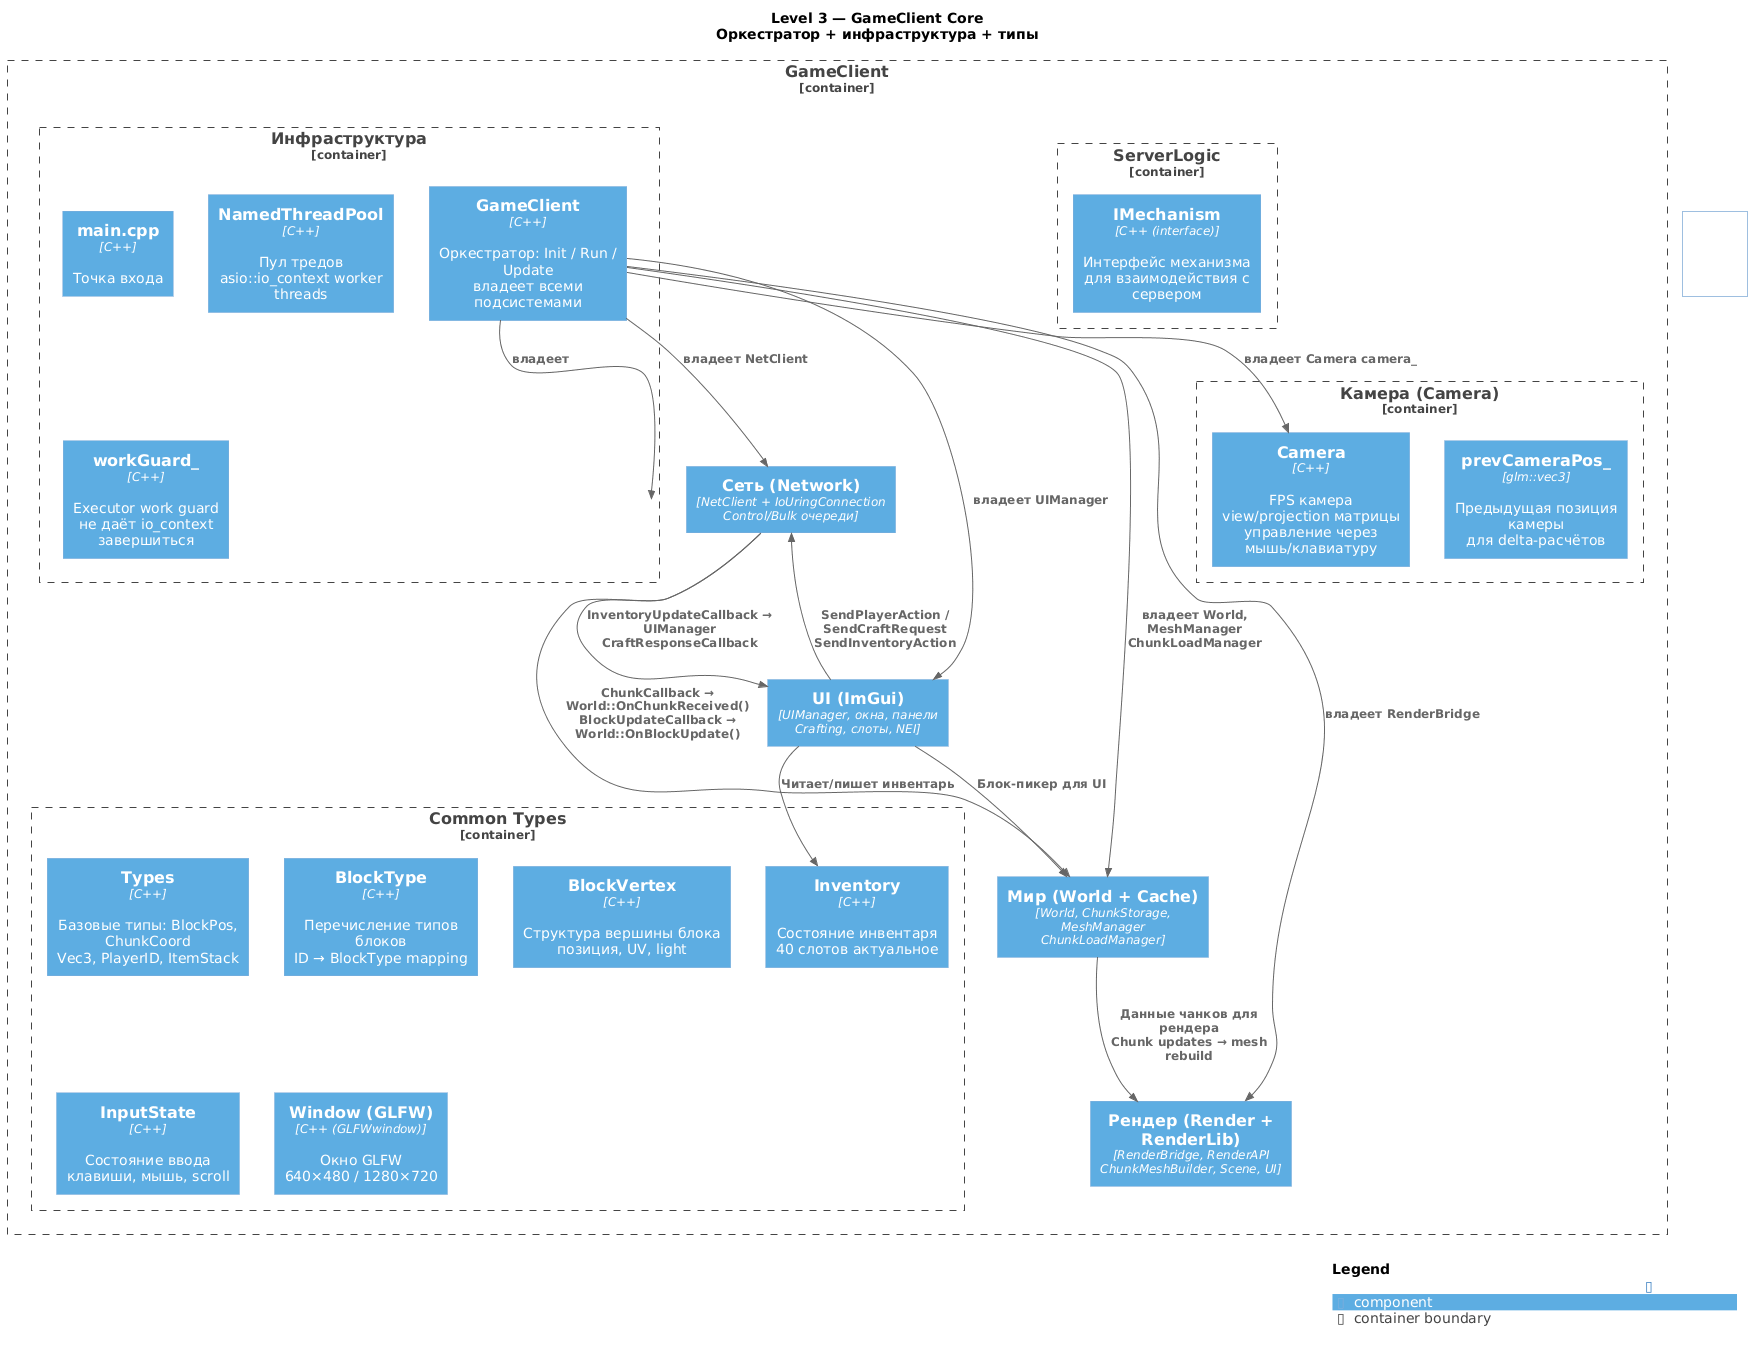
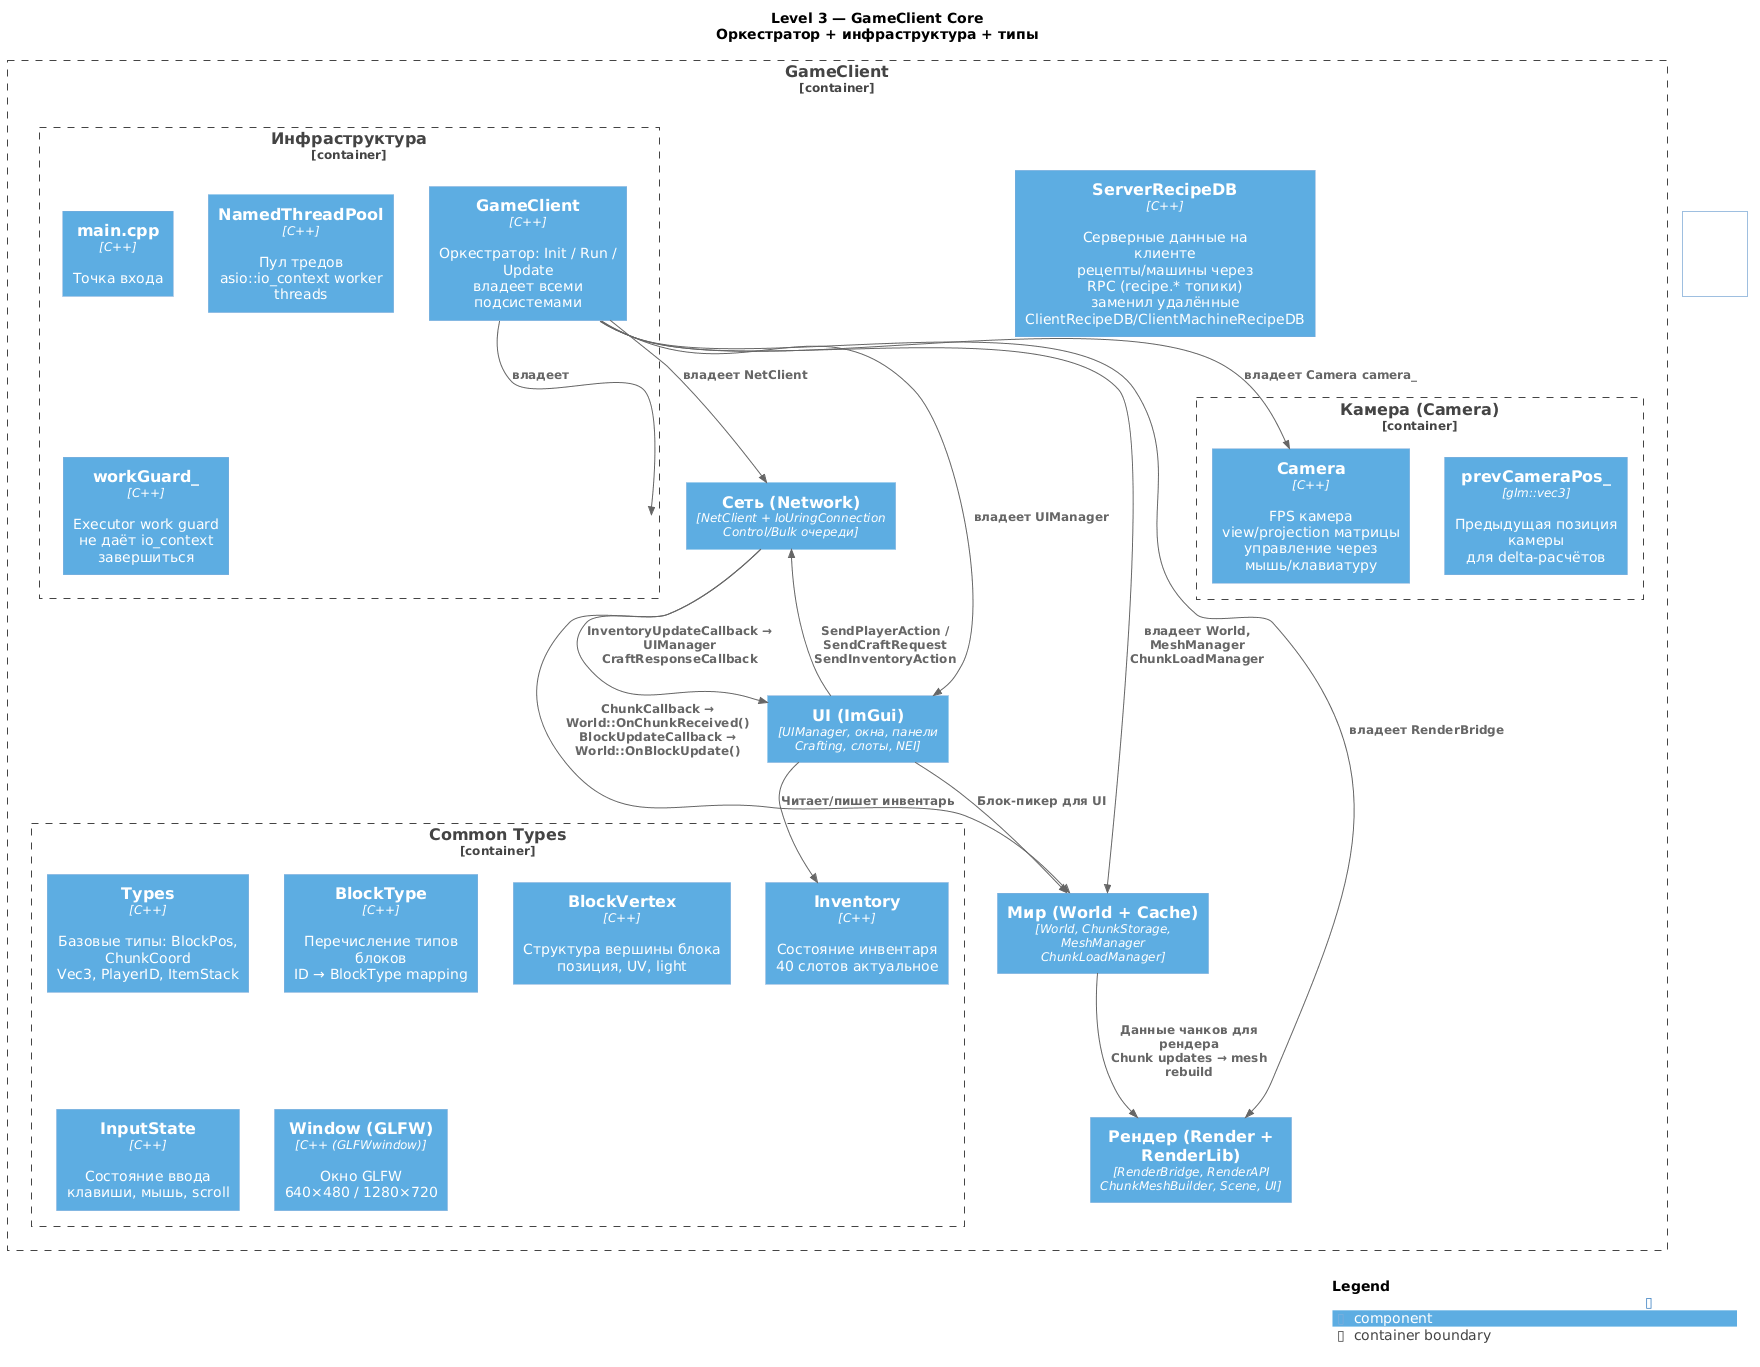
doc: update c4, userflow

diff --git a/doc/c4/README.md b/doc/c4/README.md
@@ -19,9 +19,9 @@ doc/c4/
 ├── level3-meta-db.puml                 # L3 — MetaDB (Go — SQLite, CRUD, event handlers)
 ├── level3-pipe-network.puml            # L3 — PipeNetwork (BFS, flow distribution)
 ├── level3-recipe-manager.puml          # L3 — RecipeManager (standalone service)
-├── level3-tiny-services.puml           # L3 — WorldGenerator + SpatialIndex + Validation
+├── level3-tiny-services.puml           # L3 — WorldGenerator (lib) + SpatialIndex (stub) + Validation
 │
-├── level4-sim-ecs-core.puml            # L4 — SimCore: Engine + 6 systems + Actions
+├── level4-sim-ecs-core.puml            # L4 — SimCore: Engine + 15 systems + Actions
 ├── level4-sim-ecs-components.puml      # L4 — SimCore: 14 ECS data-компонентов
 ├── level4-sim-crafting.puml            # L4 — SimCore: Crafting + RecipeManager + Inventory
 ├── level4-sim-network.puml             # L4 — SimCore: Network clients + Storage repos
@@ -100,3 +100,18 @@ java -jar plantuml.jar doc/c4/level2-container.puml -tpng
 | Сплошная зелёная | RPC | Request-Response |
 | Пунктирная оранжевая | Protocol | FlatBuffers обмен |
 | Пунктирная серая | Planned | Планируемая функциональность |
+
+## Актуальность (2026-09)
+
+Диаграммы синхронизированы с кодом по состоянию на 2026-09:
+
+- **SimulationCore**: 15 ECS-систем (сверено с `simulation_core/main.cpp` registerSystem)
+- **Gateway protocol**: 51 тип GatewayMsg — wire truth `<common/GatewayMsg.h>` (диаграмма
+  `level3-gateway.puml` программно сверяется со скриптом-чекером); `GatewayPayload`
+  union в `gateway.fbs` устарел
+- **MetaDB**: явная подписка на топики, JSON API :5005 + FlatBuffers RPC :5006 (MetaDBFrame)
+- **WorldGenerator**: библиотека (нет main.cpp) — OreGenerator/TreeGenerator/SurfaceHeights
+- **Порты deployment**: :4000 router, :5001 chunk_store, :5005/:5006 metadb,
+  :5200 entity_state, :5555 recipe_manager, :7777/:7778 gateway
+- **Planned (A.1)**: мультиплеер-фундамент (2–8 игроков) отмечен на
+  `level3-gateway.puml` и `level4-deployment.puml` — см. `openspec/changes/add-multiplayer-foundation/`

diff --git a/doc/userflow/README.md b/doc/userflow/README.md
@@ -37,3 +37,15 @@ plantuml doc/userflow/*.puml -tpng
 ## Связанные C4 диаграммы
 
 `doc/c4/level4-flows.puml` — системные event sequence диаграммы (ChunkLoading, Multiblock, Crafting, Inventory)
+
+## Актуальность (2026-09)
+
+Диаграммы синхронизированы с кодом:
+
+- **SpatialIndex убран** из flows 01/02/09 — сервис-заглушка не построен;
+  поиск руды = собственный SpiralBFS DrillSystem, pattern-check мультиблоков = SimulationCore
+- **Boiler (03)**: HEAT→STEAM конверсия fail-closed по `steam_id` (без water/steam bucket
+  инвентаря в BoilerSystem; bucket-рецепты живут в RecipeManager `data/recipes/boiler.yaml`)
+- **Typed resource ports (06)**: BoilerSystem публикует HU sink + FLUID steam source
+  параллельно с legacy node (openspec `refactor-fluid-port-accounting` 2.4)
+- Удаление блока (01): `onBlockChanged` через MessageRouter, CAS в ChunkStore
